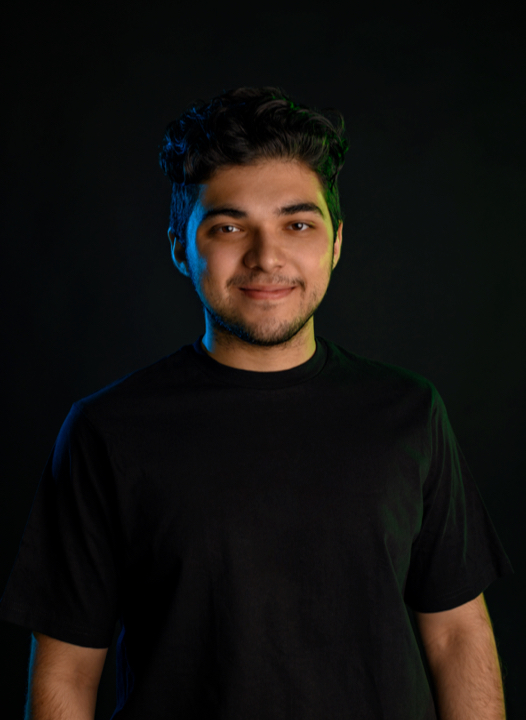
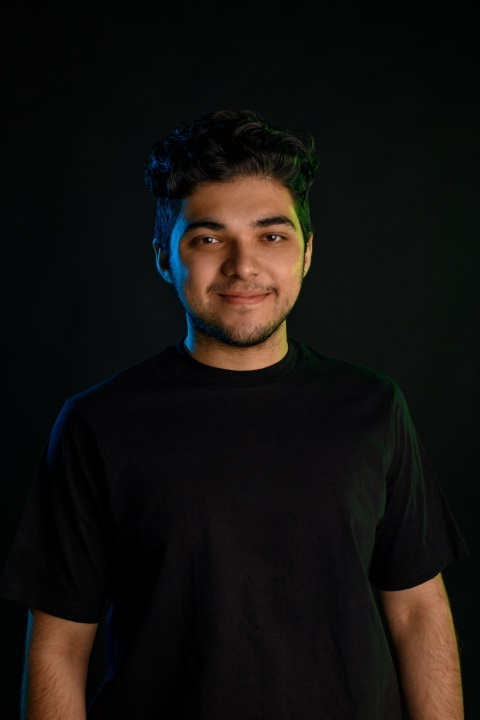
feat: locales feat: new photos in team feat: contact pics

diff --git a/src/components/layout/navbar/navbar.vue b/src/components/layout/navbar/navbar.vue
@@ -62,20 +62,20 @@
           </transition>
         </div>
         <a
+          v-html="$t('signIn')"
           href="https://app.zam.io/sign-in"
           target="_blank"
           rel="noreferrer noopener"
           :class="['navbar__btn navbar__btn--no-border mr-3 mr-md-0',
           { 'd-none' : showMobileNav }]">
-          Login
         </a>
         <a
+          v-html="$t('signUp')"
           href="https://app.zam.io/sign-up"
           target="_blank"
           rel="noreferrer noopener"
           class="d-none d-md-flex navbar__btn ml-3"
         >
-          Sign Up
         </a>
         <div class="d-md-none">
           <transition appear name="fade">
@@ -153,20 +153,20 @@
         </div>
         <div class="d-flex mt-5 pt-4">
           <a
+            v-html="$t('signIn')"
             href="https://app.zam.io/sign-in"
             target="_blank"
             rel="noreferrer noopener"
             class="navbar__btn"
           >
-            Login
           </a>
           <a
+            v-html="$t('signUp')"
             href="https://app.zam.io/sign-up"
             target="_blank"
             rel="noreferrer noopener"
             class="navbar__btn ml-3"
           >
-            Sign Up
           </a>
         </div>
       </div>
@@ -196,11 +196,6 @@ export default {
         { label: 'en', flag: 'us' },
         { label: 'kr', flag: 'kr' },
       ],
-      routes: [
-        { route: '/', name: 'Home' },
-        { route: '/team', name: 'Team' },
-        { route: '/contacts', name: 'Contacts' },
-      ],
     };
   },
   watch: {
@@ -227,7 +222,18 @@ export default {
       this.stickNav = Math.abs(offsetTop) > window.innerHeight;
     },
   },
+  computed: {
+    routes() {
+      const { lang } = this.$route.params;
+      return [
+        { route: `/${lang}`, name: this.$t('navbar.home') },
+        { route: `/${lang}/team`, name: this.$t('navbar.team') },
+        { route: `/${lang}/contacts`, name: this.$t('navbar.contacts') },
+      ];
+    },
+  },
   mounted() {
+    this.currentLocale = this.locales.findIndex(el => el.label === this.$route.params.lang) || 0;
     window.addEventListener('scroll', this.toggleNavStick);
   },
   beforeDestroy() {

diff --git a/src/views/contacts/Contacts.vue b/src/views/contacts/Contacts.vue
@@ -14,7 +14,7 @@
             :key="index"
             class="col-auto mt-5 mt-md-5 mt-xl-0"
           >
-            <div class="city">
+            <div class="city" :style="{ backgroundImage: `url('${city.thumb}')`}">
               <span class="city__name">{{ city.name }}</span>
               <span class="city__address">{{ city.address }}</span>
             </div>
@@ -55,12 +55,14 @@
                 >
 
                 </textarea>
-                <button
-                  type="submit"
+                <a
+                  :href="`mailto:support@zam.me
+                  ?subject=${encodeURIComponent(formData.name)}
+                  &body=${encodeURIComponent(formData.message)}`"
                   class="contact-form__button mt-4"
                 >
                   Send
-                </button>
+                </a>
               </form>
             </div>
           </div>
@@ -73,6 +75,7 @@
 <script>
 import vInput from '@/components/common/input';
 
+/* eslint-disable global-require */
 export default {
   name: 'contacts-page',
   data() {
@@ -84,16 +87,19 @@ export default {
       },
       cities: [
         {
-          name: 'Moscow',
-          address: '8900 E, Unnion Ave. Suite 1100 Denver, C0 829013 8900 E, ',
+          name: 'Estonia',
+          address: 'Randla 13-201, 10315 Tallinn, Estonia Company Zam Zam Technology OÜ',
+          thumb: require('./contacts-estonia.jpg'),
         },
         {
           name: 'Turkey',
-          address: '8900 E, Unnion Ave. Suite 1100 Denver, C0 829013 8900 E, ',
+          address: 'Coming Soon',
+          thumb: require('./contacts-turkey.jpg'),
         },
         {
           name: 'Dubai',
-          address: '8900 E, Unnion Ave. Suite 1100 Denver, C0 829013 8900 E, ',
+          address: 'Coming Soon',
+          thumb: require('./contacts-dubai.jpg'),
         },
       ],
     };

diff --git a/src/main.js b/src/main.js
@@ -1,6 +1,5 @@
 import Vue from 'vue';
 import VueI18n from 'vue-i18n';
-import messages from '@/locales/en.json';
 import App from './App.vue';
 import router from './router';
 
@@ -13,29 +12,16 @@ Vue.use(VueI18n);
 const i18n = new VueI18n({
   locale: 'en', // set locale
   fallbackLocale: 'en',
-  messages, // set locale messages
+  messages: {
+    en: require('@/locales/en.json'), // eslint-disable-line
+    kr: require('@/locales/kr.json'), // eslint-disable-line
+  },
 });
 
-const loadedLanguages = ['en'];
-
-function setI18nLanguage(lang) {
+export default function setI18nLanguage(lang) {
   i18n.locale = lang;
   document.querySelector('html').setAttribute('lang', lang);
   return lang;
-}
-
-export default function loadLanguageAsync(lang) {
-  if (i18n.locale !== lang) {
-    if (!loadedLanguages.includes(lang)) {
-      return import(/* webpackChunkName: "lang-[request]" */ `@/locales/${lang}.json`).then((msgs) => {
-        i18n.setLocaleMessage(lang, msgs);
-        loadedLanguages.push(lang);
-        return setI18nLanguage(lang);
-      });
-    }
-    return Promise.resolve(setI18nLanguage(lang));
-  }
-  return Promise.resolve(lang);
 }
 
 new Vue({

diff --git a/src/router.js b/src/router.js
@@ -5,7 +5,7 @@ import Contacts from '@/views/contacts';
 import Team from '@/views/team';
 import Main from '@/views/main';
 
-import loadLanguageAsync from '@/main';
+import setI18nLanguage from '@/main';
 
 Vue.use(Router);
 
@@ -21,7 +21,7 @@ const router = new Router({
   routes: [
     {
       path: '/',
-      redirect: '/:lang',
+      redirect: '/en',
     },
     {
       path: '/:lang/contacts',
@@ -45,14 +45,9 @@ const router = new Router({
 });
 
 router.beforeEach((to, from, next) => {
-  let { lang = null } = to.params;
-
-  if (!lang) {
-    lang = window.navigator.language.split('-')[0]
-      || window.navigator.userLanguage.split('-')[0];
-  }
-
-  return loadLanguageAsync(lang).then(() => next());
+  const { lang } = to.params;
+  setI18nLanguage(lang);
+  return next();
 });
 
 export default router;

diff --git a/src/views/main/Main.vue b/src/views/main/Main.vue
@@ -223,12 +223,12 @@
         <div class="row justify-content-center">
           <div class="col-auto">
             <a
+              v-html="$t('news.more')"
               href="https://medium.com/@zamzamofficial"
               target="_blank"
               rel="noreferrer noopener"
               class="news-btn"
             >
-              More
             </a>
           </div>
         </div>
@@ -572,7 +572,7 @@ export default {
 .musthead__title {
   font-size: 6.25rem;
   font-weight: bold;
-  line-height: 0.85;
+  line-height: 1;
   letter-spacing: -3px;
   color: $sky-blue;
 

diff --git a/src/views/team/Team.vue b/src/views/team/Team.vue
@@ -3,9 +3,7 @@
     <div class="container">
       <div class="row">
         <div class="col-12">
-          <h2 class="section-title team-title">
-            <span class="dark-blue">Our</span> team
-          </h2>
+          <h2 v-html="$t('team.title')" class="section-title team-title"></h2>
         </div>
       </div>
       <div class="row justify-content-center justify-content-md-between team-row">
